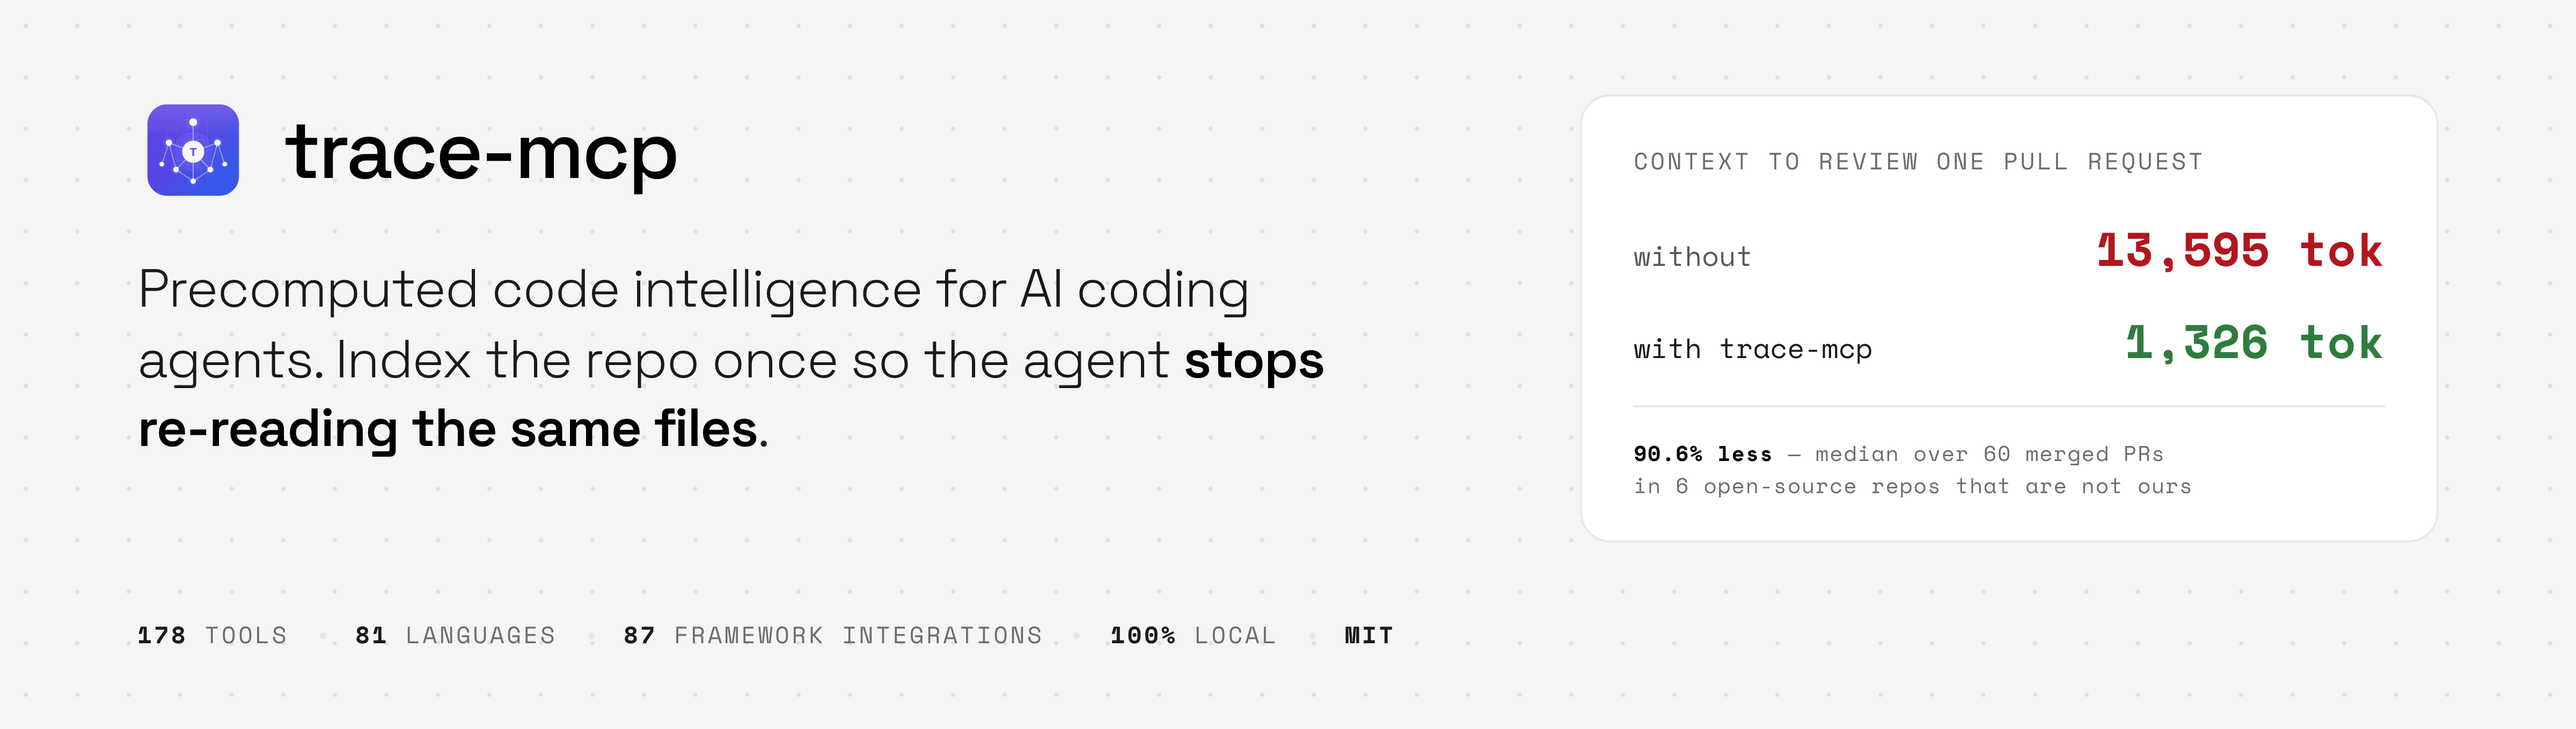
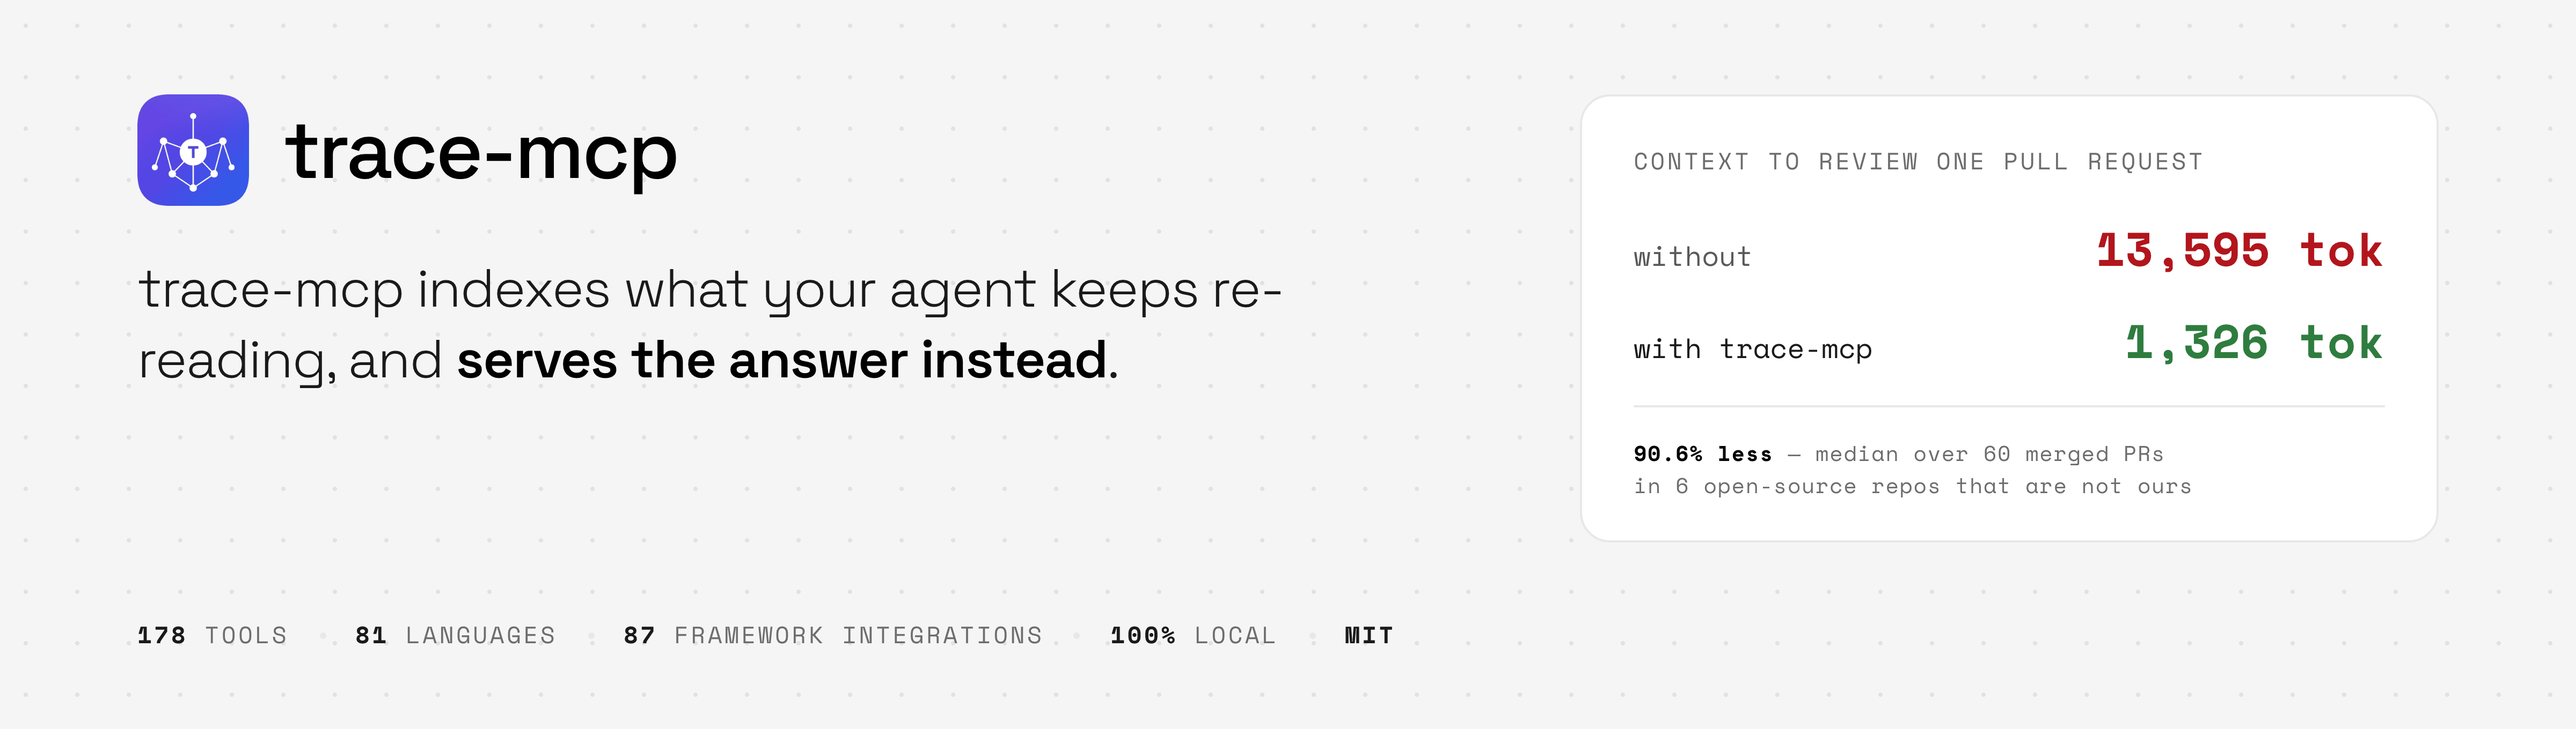
docs: lead with the claim, not the mechanism (TRA-918)
`ops/positioning.md` (TRA-906) decided the sentence trace-mcp leads with.
This is the copy change it obliges, on the three surfaces a reader actually
sees, all carrying the sentence verbatim — two paraphrases of one claim read
as two claims to anything extracting them:

- `docs/index.html` hero headline, replacing "Precomputed code intelligence
  for AI coding agents". The 90.6% PR-review number moves down one line and
  stays as the headline evidence, now with its own denominator.
- `README.md` first screen, plus the banner PNGs — the tagline lives in
  `scripts/gen-readme-banner.mjs`, so the images are regenerated, never
  retouched. That regeneration also picked up the tool count from
  counts.yml (177 -> 178), so the three prose copies in README follow.
- `docs/_config.yml` `description`, which feeds the meta description on every
  doc page. Cut to 155 characters so the SERP snippet does not truncate it,
  and it carries no hand-typed number.

The honesty boundary travels with the claim rather than as a footnote: we
change configuration the user could change themselves, we do not patch the
client's binary, intercept its traffic, or rewrite its files.

Not touched, deliberately: `server.json`'s `description` (storefront for
registries that can only deliver the tool surface), and the `<title>` /
meta description / Product View heading on the home page, which carry the
measured category term per TRA-950 and `tests/docs/category-term.test.ts`.

Agent: SEO Agent

diff --git a/docs/index.html b/docs/index.html
@@ -608,6 +608,16 @@ updated: 2026-09-04
     /* The payoff half of the subtitle separates on colour, not weight — a second
        weight here would spend a budget slot on what one shade already says. */
     .hero-desc .accent-text { color: var(--text-display); }
+    /* The boundary line reads as the quiet half of the same paragraph: same
+       measure, one step down in size and shade, so it is carried with the claim
+       without competing with it. */
+    .hero-boundary {
+      margin: 14px auto 0;
+      max-width: 660px;
+      font-size: 15px;
+      line-height: 1.5;
+      color: var(--text-secondary);
+    }
     /* The three mono caps rows of the hero — eyebrow above the headline, the
        alternative platforms under the button, the trust line at the fold — are one
        treatment at three opacities, not three components. Only the distance from the
@@ -683,6 +693,7 @@ updated: 2026-09-04
       .hero { padding: 64px 0 40px; }
       .hero-headline { font-size: clamp(30px, 8vw, 44px); max-width: 100%; }
       .hero-desc { margin-top: 20px; font-size: 16px; }
+      .hero-boundary { margin-top: 12px; font-size: 14px; }
       /* Full width, one button: on a phone the download is a target, not a pill
          floating in the middle of a 390px row. */
       .hero-cta { margin-top: 28px; }
@@ -2180,16 +2191,28 @@ updated: 2026-09-04
         <span>MIT</span>
       </p>
 
+      <!-- The position sentence, verbatim from ops/positioning.md and identical on
+           README.md's first screen, the banner PNGs and _config.yml's description:
+           two paraphrases of one claim read as two claims to anything extracting
+           them. Do not narrow it back to the graph — that is what the old headline
+           ("Precomputed code intelligence for AI coding agents") did, and the
+           category term lives on the title and the Product View heading instead
+           (tests/docs/category-term.test.ts). -->
       <h1 class="hero-headline">
-        Precomputed code intelligence for AI coding agents
+        trace-mcp indexes what your agent keeps re-reading, and serves the answer instead.
       </h1>
 
-      <!-- Same verbatim wording as README.md's first screen and as the metrics tile
-           below: two paraphrases of one number read as two claims to anything
-           extracting them. -->
+      <!-- The evidence, not a second claim. Same verbatim number as README.md's
+           first screen and the metrics tile below. -->
       <p class="hero-desc">
-        trace-mcp is an MCP server that indexes your repository once so AI coding agents stop re-reading the same files &mdash;
-        <span class="accent-text">{{ site.data.pr_context_bench.median_savings_pct }}% fewer input tokens to review a pull request.</span>
+        <span class="accent-text">{{ site.data.pr_context_bench.median_savings_pct }}% fewer input tokens to review a pull request</span> &mdash;
+        median over {{ site.data.pr_context_bench.pr_count }} merged pull requests in open-source repos we don't own.
+      </p>
+
+      <!-- The honesty boundary travels with the claim, not as a footnote further down
+           the page (ops/positioning.md &sect; The boundary, carried with the claim). -->
+      <p class="hero-boundary">
+        We change configuration you could change yourself. We do not patch your client's binary, intercept its traffic, or rewrite its files.
       </p>
 
       <div class="hero-cta">

diff --git a/README.md b/README.md
@@ -16,7 +16,7 @@
     <source media="(max-width: 500px) and (prefers-color-scheme:light)" srcset="docs/images/readme/banner-narrow-light.png" />
     <source media="(max-width: 500px)" srcset="docs/images/readme/banner-narrow-dark.png" />
     <source media="(prefers-color-scheme: light)" srcset="docs/images/readme/banner-light.png" />
-    <img src="docs/images/readme/banner-dark.png" width="750" alt="trace-mcp — precomputed code intelligence for AI coding agents. Index the repo once so the agent stops re-reading the same files. Context to review one pull request: 13,595 tokens without trace-mcp, 1,326 with it — 90.6% less, median over 60 merged PRs in 6 open-source repos that are not ours. 177 tools, 81 languages, 87 framework integrations, 100% local, MIT." />
+    <img src="docs/images/readme/banner-dark.png" width="750" alt="trace-mcp indexes what your agent keeps re-reading, and serves the answer instead. Context to review one pull request: 13,595 tokens without trace-mcp, 1,326 with it — 90.6% less, median over 60 merged PRs in 6 open-source repos that are not ours. 178 tools, 81 languages, 87 framework integrations, 100% local, MIT." />
   </picture>
 </p>
 
@@ -41,9 +41,17 @@
 </p>
 
 <!-- The banner carries this sentence as a picture; this line carries it as text,
-     so search and screen readers get the same claim. Keep the two in sync. -->
+     so search and screen readers get the same claim. Keep the two in sync, and keep
+     both verbatim with the hero on trace-mcp.com and with docs/_config.yml —
+     ops/positioning.md holds the sentence. The boundary line under it is not a
+     footnote: it travels with the claim wherever the claim goes. -->
 <p align="center">
-  <strong>trace-mcp</strong> is an MCP server that indexes your repository once so AI coding agents stop re-reading the same files &mdash; <strong>90.6% fewer input tokens</strong> to review a pull request.
+  <strong>trace-mcp indexes what your agent keeps re-reading, and serves the answer instead.</strong><br />
+  <strong>90.6% fewer input tokens</strong> to review a pull request &mdash; median over 60 merged pull requests in open-source repos we don't own.
+</p>
+
+<p align="center">
+  <sub>We change configuration you could change yourself. We do not patch your client's binary, intercept its traffic, or rewrite its files.</sub>
 </p>
 
 <p align="center">
@@ -74,7 +82,7 @@ trace add                  # index the repo you are in
 
 AI agents pay repeatedly for work they have already done. Every turn, the agent re-reads the same files, re-traverses the same dependencies, and re-inflates the context window with structure it discovered five steps ago. That repeated work is most of what a long session costs in tokens and latency.
 
-trace-mcp builds a framework-aware graph of your codebase **once**, then serves it through MCP so the agent reasons from a precomputed structure instead of brute-reading the repo. Ask *"what breaks if I change this model?"* — instead of 80 Grep calls and 190 file reads, the agent calls `get_change_impact` once and gets the blast radius across PHP, Vue, migrations, and DI. 87 framework integrations across 81 languages, 177 tools.
+trace-mcp builds a framework-aware graph of your codebase **once**, then serves it through MCP so the agent reasons from a precomputed structure instead of brute-reading the repo. Ask *"what breaks if I change this model?"* — instead of 80 Grep calls and 190 file reads, the agent calls `get_change_impact` once and gets the blast radius across PHP, Vue, migrations, and DI. 87 framework integrations across 81 languages, 178 tools.
 
 The binding constraint is **recomputation**, not model capability: token bills, latency, and hallucinations all grow with project size instead of with task complexity. trace-mcp closes the recomputation leak. The graph is built once, kept incrementally fresh, and served to every agent that asks — so the same work isn't paid for over and over.
 
@@ -566,7 +574,7 @@ Source files (PHP, TS, Vue, Python, Go, Java, Kotlin, Ruby, HTML, CSS, Blade)
                      │
                      ▼
          MCP server (stdio or HTTP/SSE)
-         177 tools · 10 resources
+         178 tools · 10 resources
 ```
 
 **Incremental by default** — files are content-hashed; unchanged files are skipped on re-index.

diff --git a/ops/positioning.md b/ops/positioning.md
@@ -248,9 +248,9 @@ ordinary issue, not part of this pass. Ordered by how much a reader sees it.
 
 | Surface | Change | Note |
 |---|---|---|
-| `docs/index.html` hero | Headline → the sentence. Boundary line under it. 90.6% stays as the evidence | Keep the `Recomputation → Reuse` eyebrow — it was right all along |
-| `README.md` first screen + banner PNGs | Same sentence, verbatim | Banner is generated: `scripts/gen-readme-banner.mjs`, never retouched by hand |
-| `docs/_config.yml` `description` | Same sentence | Feeds meta description on every page |
+| `docs/index.html` hero | **Done (TRA-918).** Headline → the sentence. Boundary line under it. 90.6% moved to the subhead as evidence | Eyebrow kept — it was right all along. Category term stays on the `<title>` and the Product View heading, not the hero |
+| `README.md` first screen + banner PNGs | **Done (TRA-918).** Same sentence, verbatim, plus the boundary line | Banner regenerated from `scripts/gen-readme-banner.mjs` — the tagline lives in that script, not in the PNG |
+| `docs/_config.yml` `description` | **Done (TRA-918).** Sentence first, then the category term; no hand-typed number | Feeds meta description on every page, so it is cut to 155 characters |
 | Site IA | Two second-level entries, one per door; door 2 has no page today | The real gap; see Doors |
 | `comparisons.md` | Compares graph-to-graph today. The `/vs/` claim changes shape | Coordinate with SEO — TRA-876 just landed benchmark copy on three `/vs/` pages |
 | `server.json` `description` | **Tools only** — do not carry the category sentence | Deliberate; see Doors |
